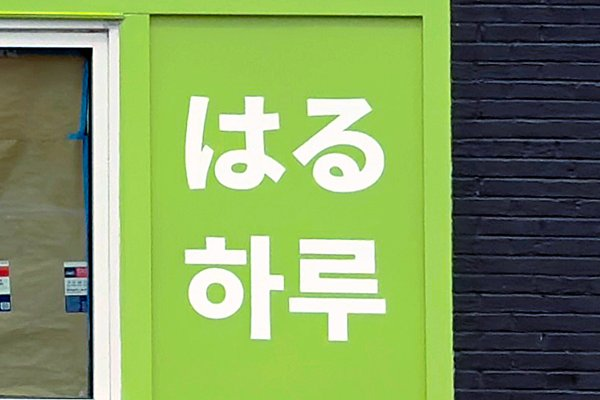
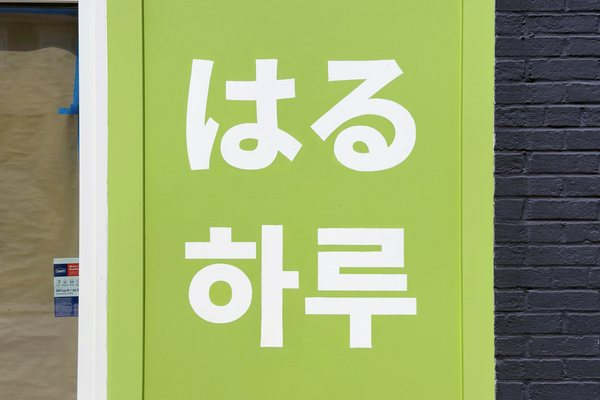
Aug 18 photos: timeline frame, fresh card thumbs, new link preview
Three shots from Tuesday morning after the 3030 was finished.

Timeline gets a fourth frame - and it is the best one on the page:
straight-on from across the street, clean sky, whole building. The
before/after against the May 6 mustard-yellow Tokyo Market shot is now
the strongest thing this dashboard shows a client.

All three card thumbnails refreshed off today's photos. now-3030 is the
finished close-up instead of bare wall. now-characters is a landscape
crop out of a portrait source, centred on the glyphs. now-haru is
cropped to exclude the 3030 deliberately - that card should show its own
sign and nothing else, and the empty panel IS the honest state.

og:image repointed to a date-stamped og-2026-08-18.jpg. Same reasoning
as before: Apple's link cache keys on the image URL, so a new date is
the only reliable bust.

diff --git a/progress/index.html b/progress/index.html
@@ -23,10 +23,10 @@
 <meta property="og:title" content="Haru - your signs, underway">
 <meta property="og:description" content="Your signs at 3030 West Cary, going up by hand.">
 <meta property="og:url" content="https://maximum-execution.github.io/haru-proof/progress/">
-<meta property="og:image" content="https://maximum-execution.github.io/haru-proof/img/progress/og-2026-08-16.jpg">
+<meta property="og:image" content="https://maximum-execution.github.io/haru-proof/img/progress/og-2026-08-18.jpg">
 <meta property="og:image:width" content="1200">
 <meta property="og:image:height" content="630">
-<meta property="og:image:alt" content="The Haru storefront on West Cary Street. The green sign panel is painted on the upper wall and the Japanese and Korean characters are on the wall by the window.">
+<meta property="og:image:alt" content="The Haru storefront on West Cary Street. The address numbers are painted on the white upper wall, the Japanese and Korean characters are on the green wall by the window, and the large green sign panel above is still empty.">
 <meta name="twitter:card" content="summary_large_image">
 
 <!-- Home screen. Kim can keep this on her home screen and tap an icon
@@ -46,7 +46,7 @@
 <!-- ?v is bumped on every deploy so a cached browser can never serve stale
      CSS or content. The HTML itself revalidates against GitHub Pages within
      its 10 minute max-age. -->
-<link rel="stylesheet" href="app.css?v=26">
+<link rel="stylesheet" href="app.css?v=27">
 </head>
 <body class="m-0 pb-16">
 <a href="#glanceH" class="sr-only focus:not-sr-only focus:absolute focus:left-4 focus:top-4 focus:z-50 focus:rounded-xl focus:border focus:border-line focus:bg-surface focus:px-5 focus:py-3 focus:text-label-16 focus:font-semibold focus:text-ink">Skip to your progress</a>
@@ -207,7 +207,7 @@
   </footer>
 </div>
 
-<script src="data.js?v=26"></script>
+<script src="data.js?v=27"></script>
 <script>
 (function(){
   "use strict";

diff --git a/progress/data.js b/progress/data.js
@@ -99,7 +99,7 @@ window.HARU = {
       short: "Finished",
       where: "Above your front door",
       thumb: "../img/progress/now-3030.jpg",
-      thumbLabel: "Painted",
+      thumbLabel: "Painted",   /* refreshed 8/18 - finished close-up */
       steps: [
         { label: "Design approved", done: true },
         { label: "Patterns made", done: true },
@@ -229,6 +229,13 @@ window.HARU = {
       date: "August 16",
       caption: "Your Japanese and Korean letters are up, and the green panel is painted.",
       alt: "The same storefront with white Japanese and Korean characters painted on the green wall beside the front window, and a large green rectangle painted on the upper white wall where the main sign will go."
+    },
+    {
+      src:   "../img/progress/front-2026-08-18.jpg",
+      thumb: "../img/progress/thumb-2026-08-18.jpg",
+      date: "August 18",
+      caption: "Your address is up. Two of your three outside signs are finished.",
+      alt: "The storefront on a clear morning, photographed straight on from across the street. The address numbers are painted in dark green on the white upper wall, the Japanese and Korean characters are on the green wall by the window, and the large green panel above is still empty."
     }
   ],
 
